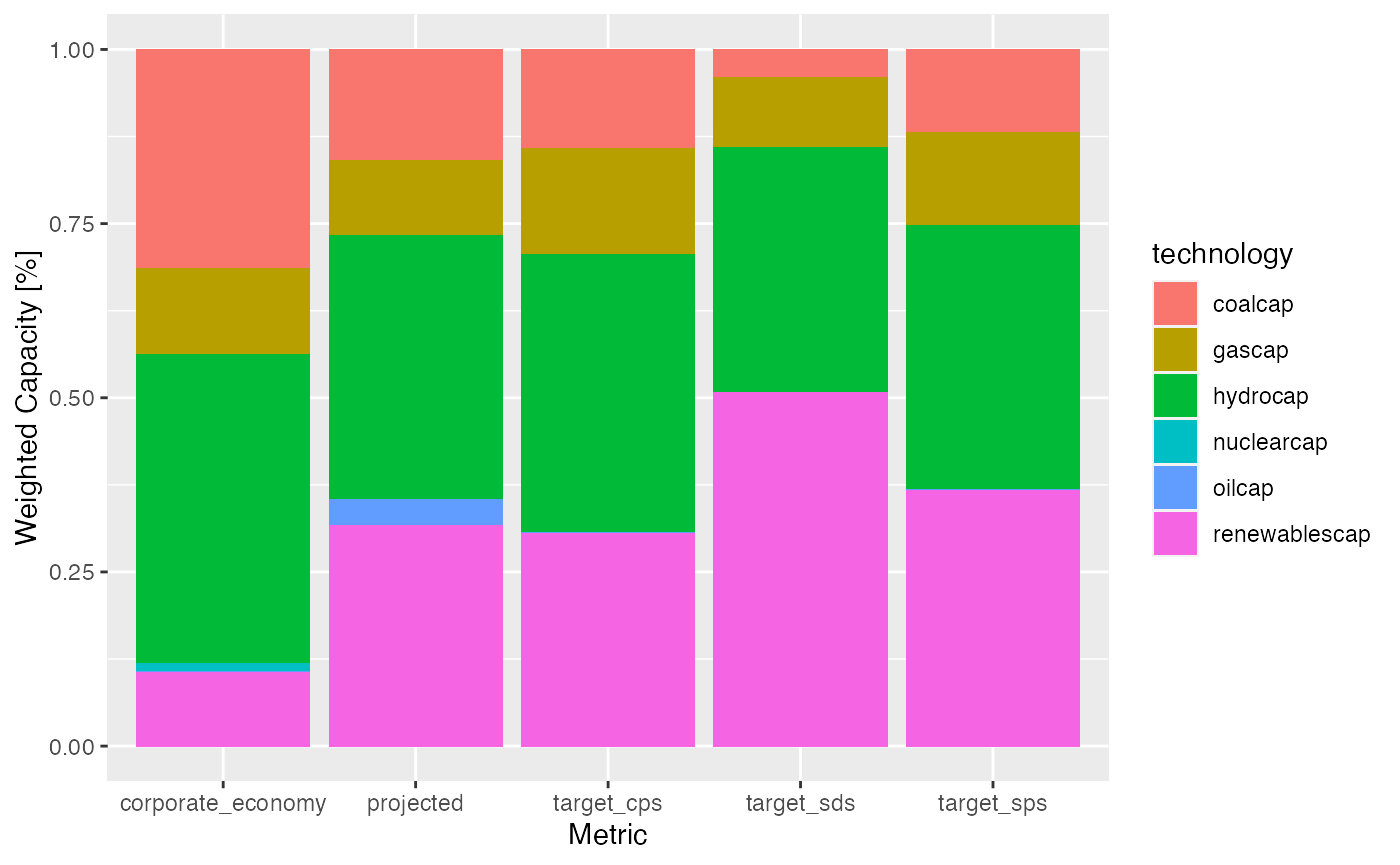
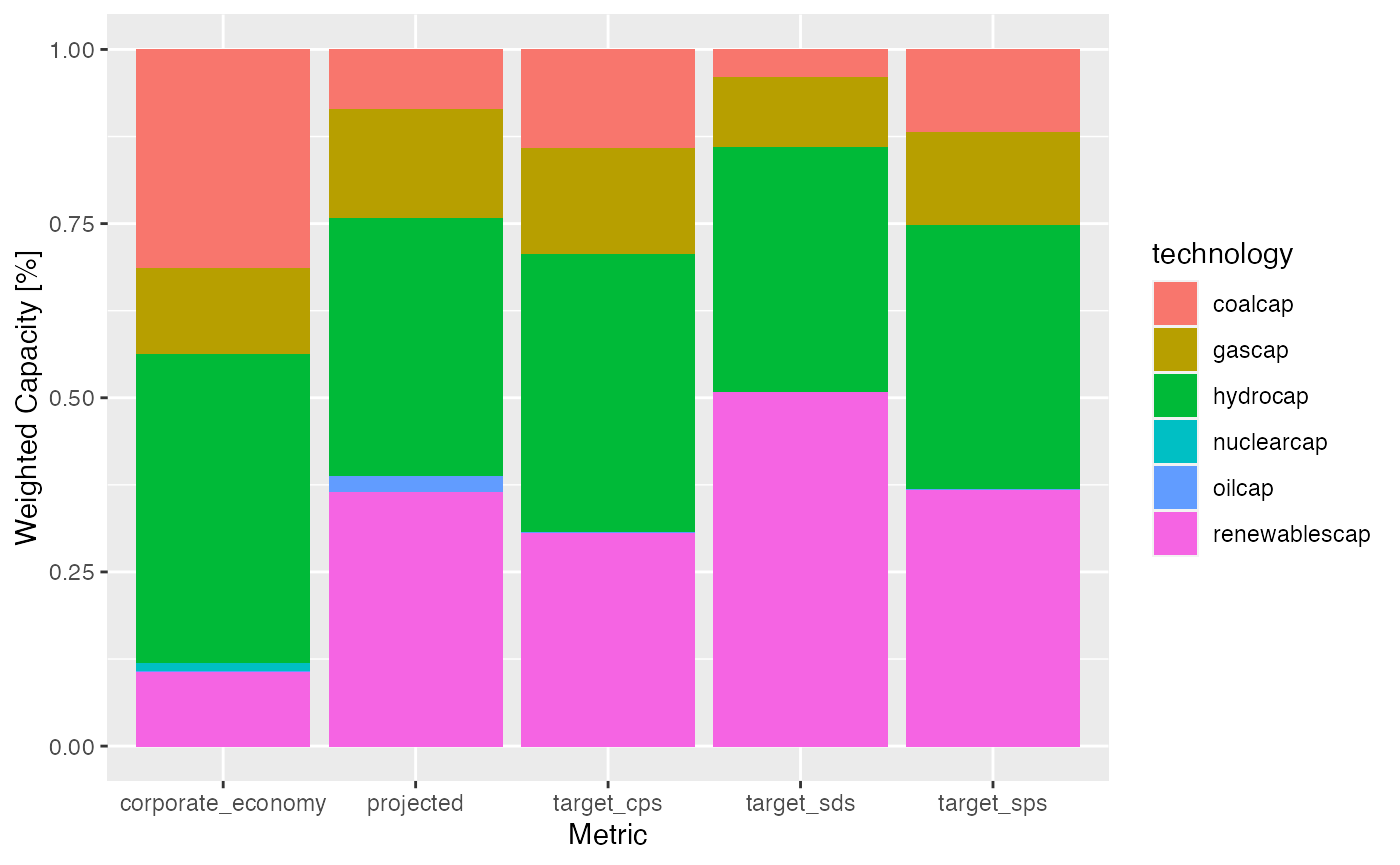
Built site for r2dii.analysis: 0.1.1.9000@bdb9699

Changed region(s): [[0.215, 0.5306, 0.3686, 0.6243], [0.215, 0.1249, 0.3686, 0.1873], [0.215, 0.2497, 0.3686, 0.2809]]

diff --git a/dev/news/index.html b/dev/news/index.html
@@ -169,6 +169,7 @@
 <a href="#r2diianalysis-development-version" class="anchor"></a>r2dii.analysis (development version)<small> Unreleased </small>
 </h1>
 <ul>
+<li><p><code><a href="../reference/target_market_share.html">target_market_share()</a></code> now outputs <code>weighted_technology_share</code> that correctly sums to 1 when grouped by <code>sector</code>, <code>metric</code> and <code>secnario</code> (<a href='https://github.com/2DegreesInvesting/r2dii.analysis/issues/218'>#218</a>).</p></li>
 <li><p><code><a href="../reference/target_market_share.html">target_market_share()</a></code> now correctly outputs unweighted production when multiple loans exist for the same company (<a href='https://github.com/2DegreesInvesting/r2dii.analysis/issues/239'>#239</a>).</p></li>
 <li><p><code><a href="../reference/target_sda.html">target_sda()</a></code> now interpolates input scenario file by year and correctly calculates target, regardless of the time-horizon of <code>ald</code> (<a href='https://github.com/2DegreesInvesting/r2dii.analysis/issues/234'>#234</a>).</p></li>
 <li><p><code><a href="../reference/target_market_share.html">target_market_share()</a></code> now outputs empty named tibble if no matching region definitions can be found (<a href='https://github.com/2DegreesInvesting/r2dii.analysis/issues/236'>#236</a>).</p></li>
